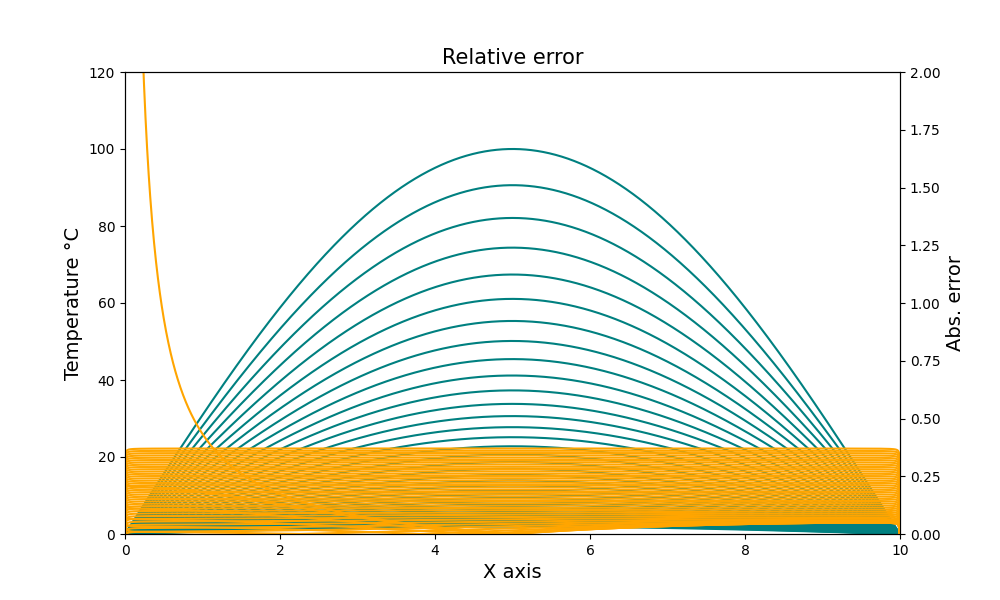
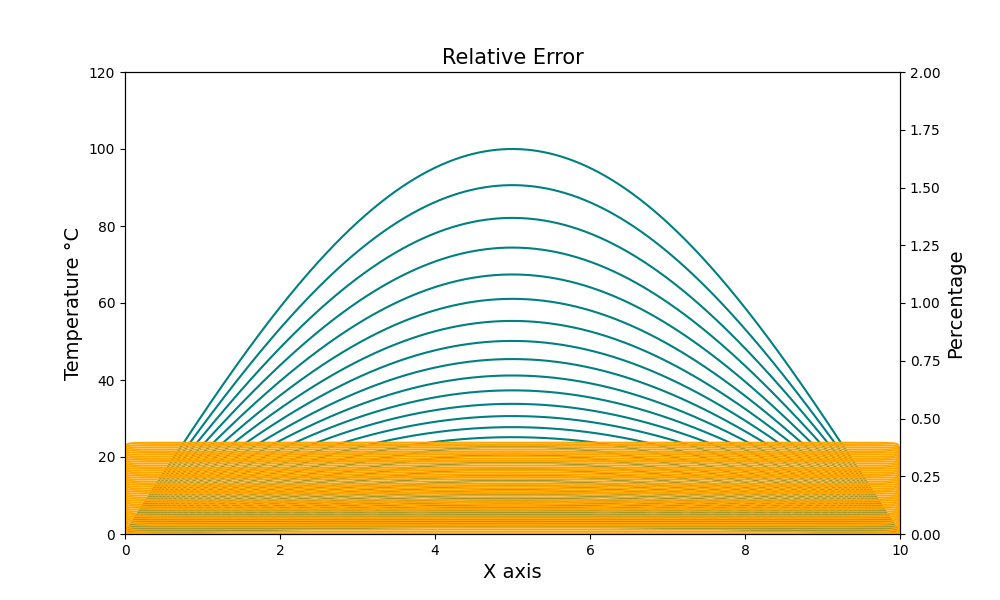
Corrected the error plots range

diff --git a/src/heat_plots.py b/src/heat_plots.py
@@ -88,13 +88,13 @@ def generate_image_bench(matrix, error, path="..\img\heat_1d_error_percent.png")
     # Prepares the first axis plotting
     fig, ax1 = plt.subplots(figsize=(10, 6))
 
-    ax1.set_title("Relative Error", fontsize=15)
-    ax1.set_ylabel("Percentage", fontsize=14)
+    ax1.set_title("Abs. Error", fontsize=15)
+    ax1.set_ylabel("Temperature °C", fontsize=14)
     ax1.set_xlabel("X axis", fontsize=14)
 
     # Prepares the second axis plotting
     ax2 = ax1.twinx()
-    ax2.set_ylabel("Abs. error", fontsize=14)
+    ax2.set_ylabel("Percentage", fontsize=14)
     
     # Arbitrary parameters for the temp. axis limits
     y_max = max(TEMPERATURE_START, TEMPERATURE_BEGIN, TEMPERATURE_END)
@@ -106,7 +106,7 @@ def generate_image_bench(matrix, error, path="..\img\heat_1d_error_percent.png")
     y_max = error.max()
     y_min = error.min()
 
-    ax2.set(xlim=[0, LENGTH], ylim=[y_min, 2])
+    ax2.set(xlim=[0, LENGTH], ylim=[y_min, y_max + 1])
 
     # Creates the X axis ticks
     x_vector = np.arange(0, LENGTH, DX)
